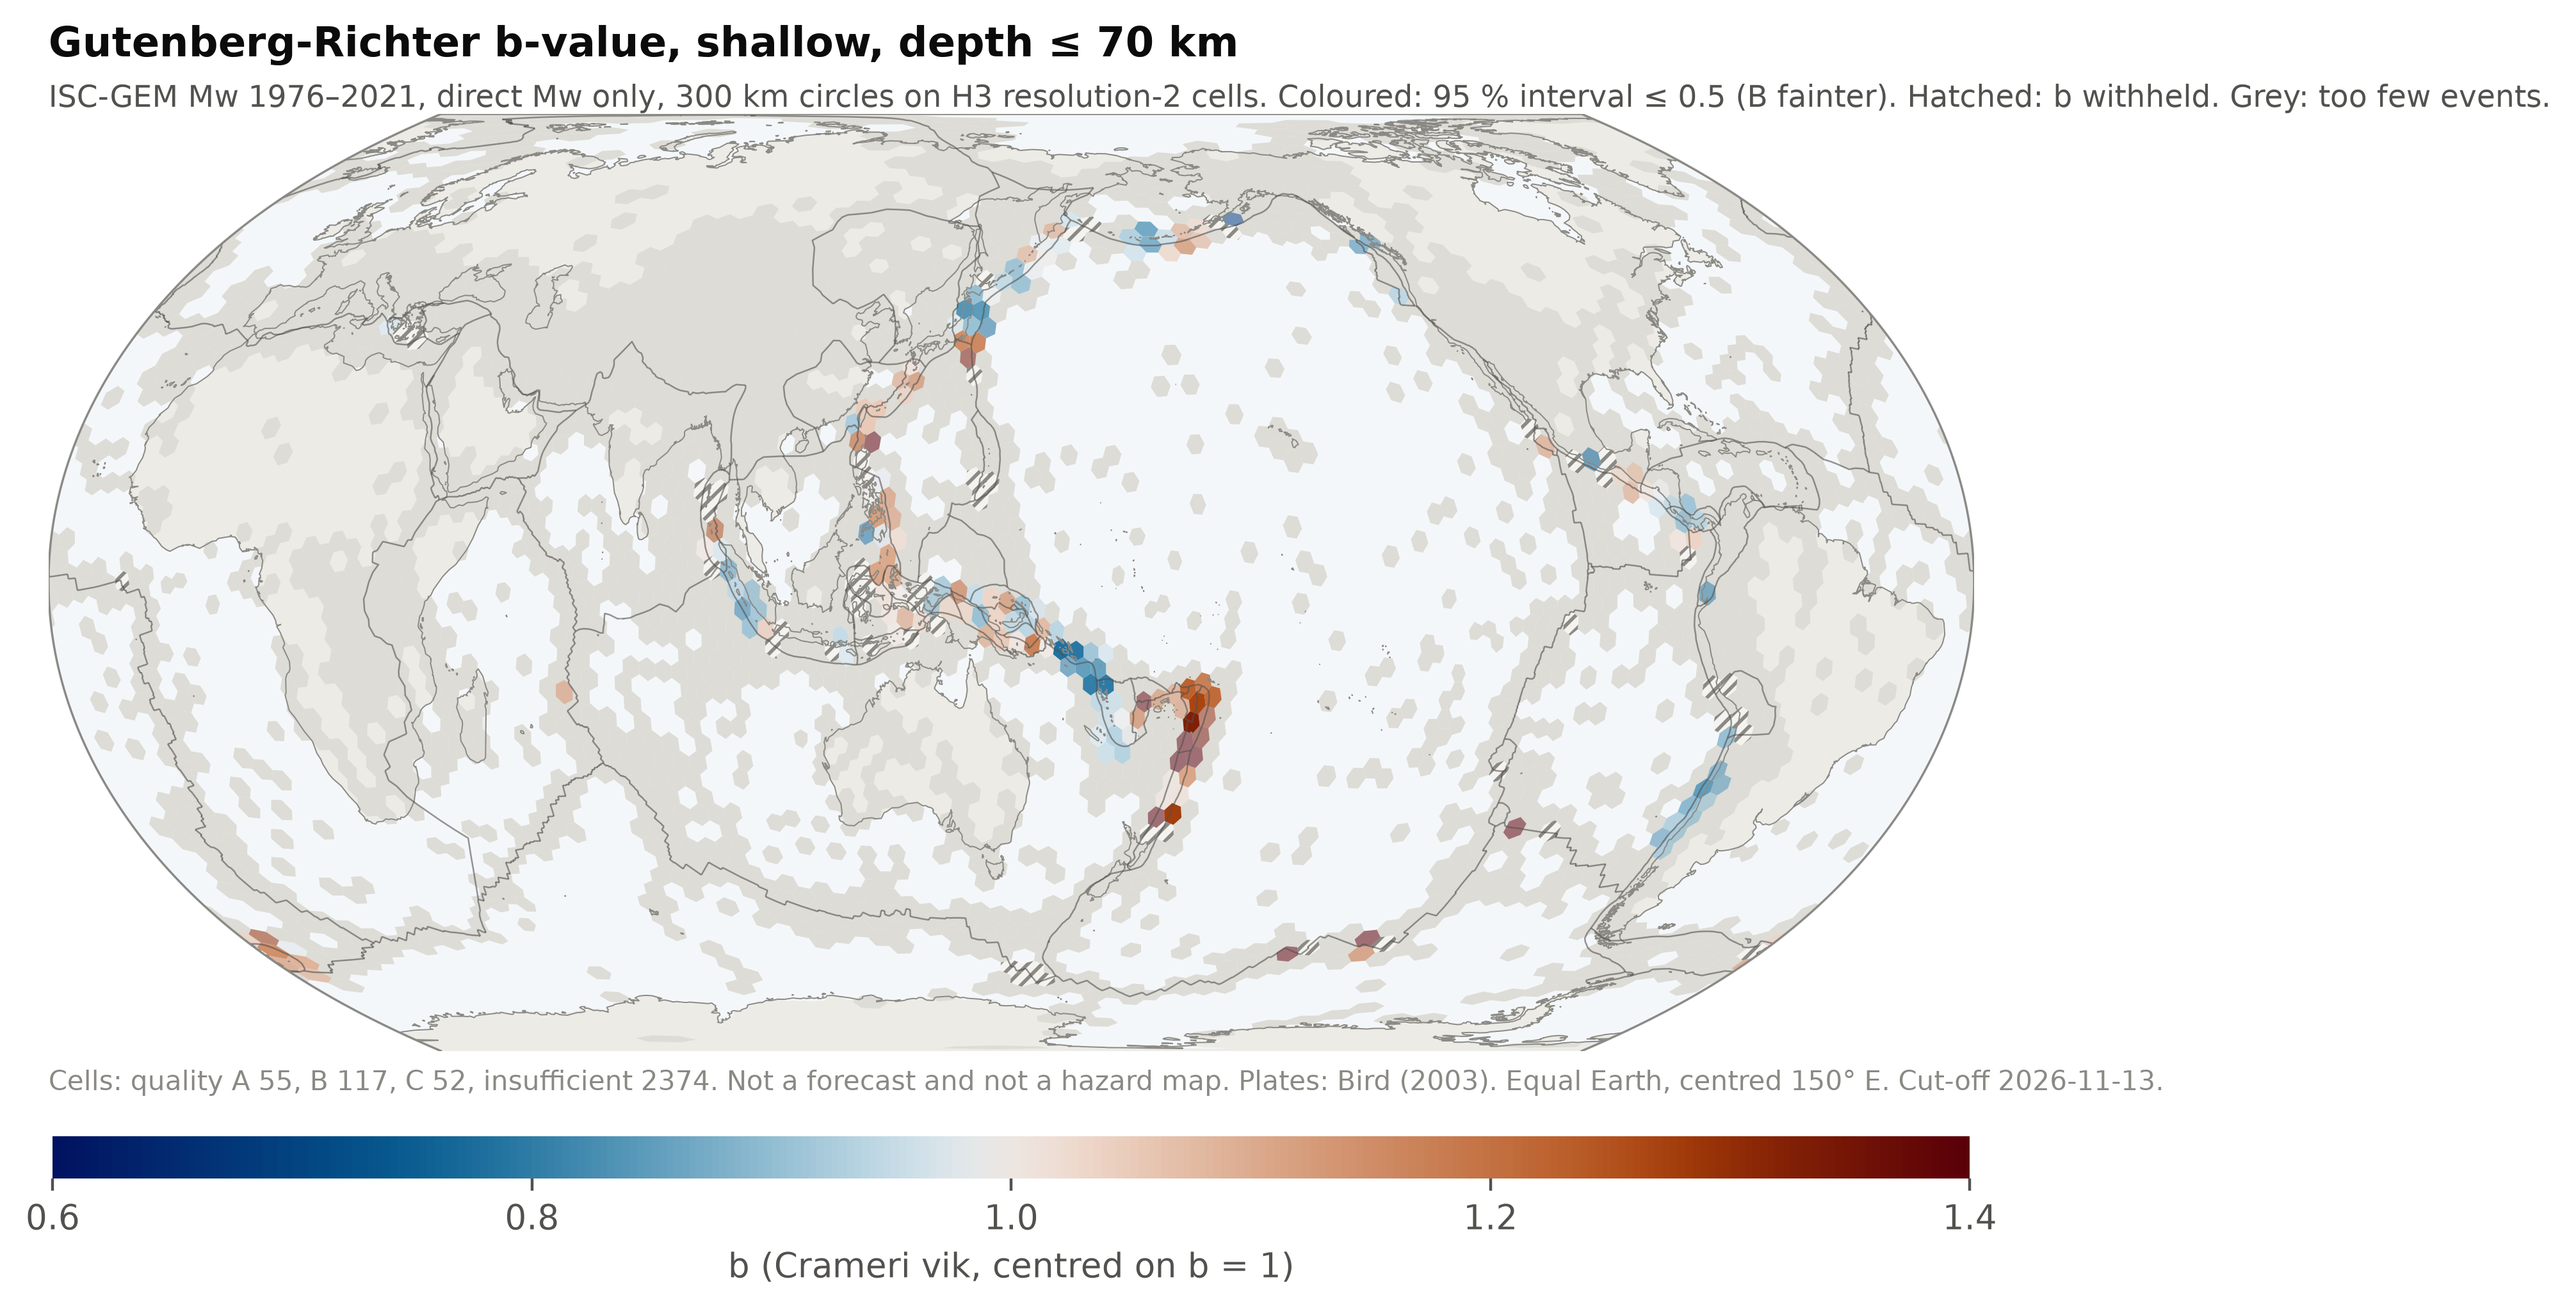
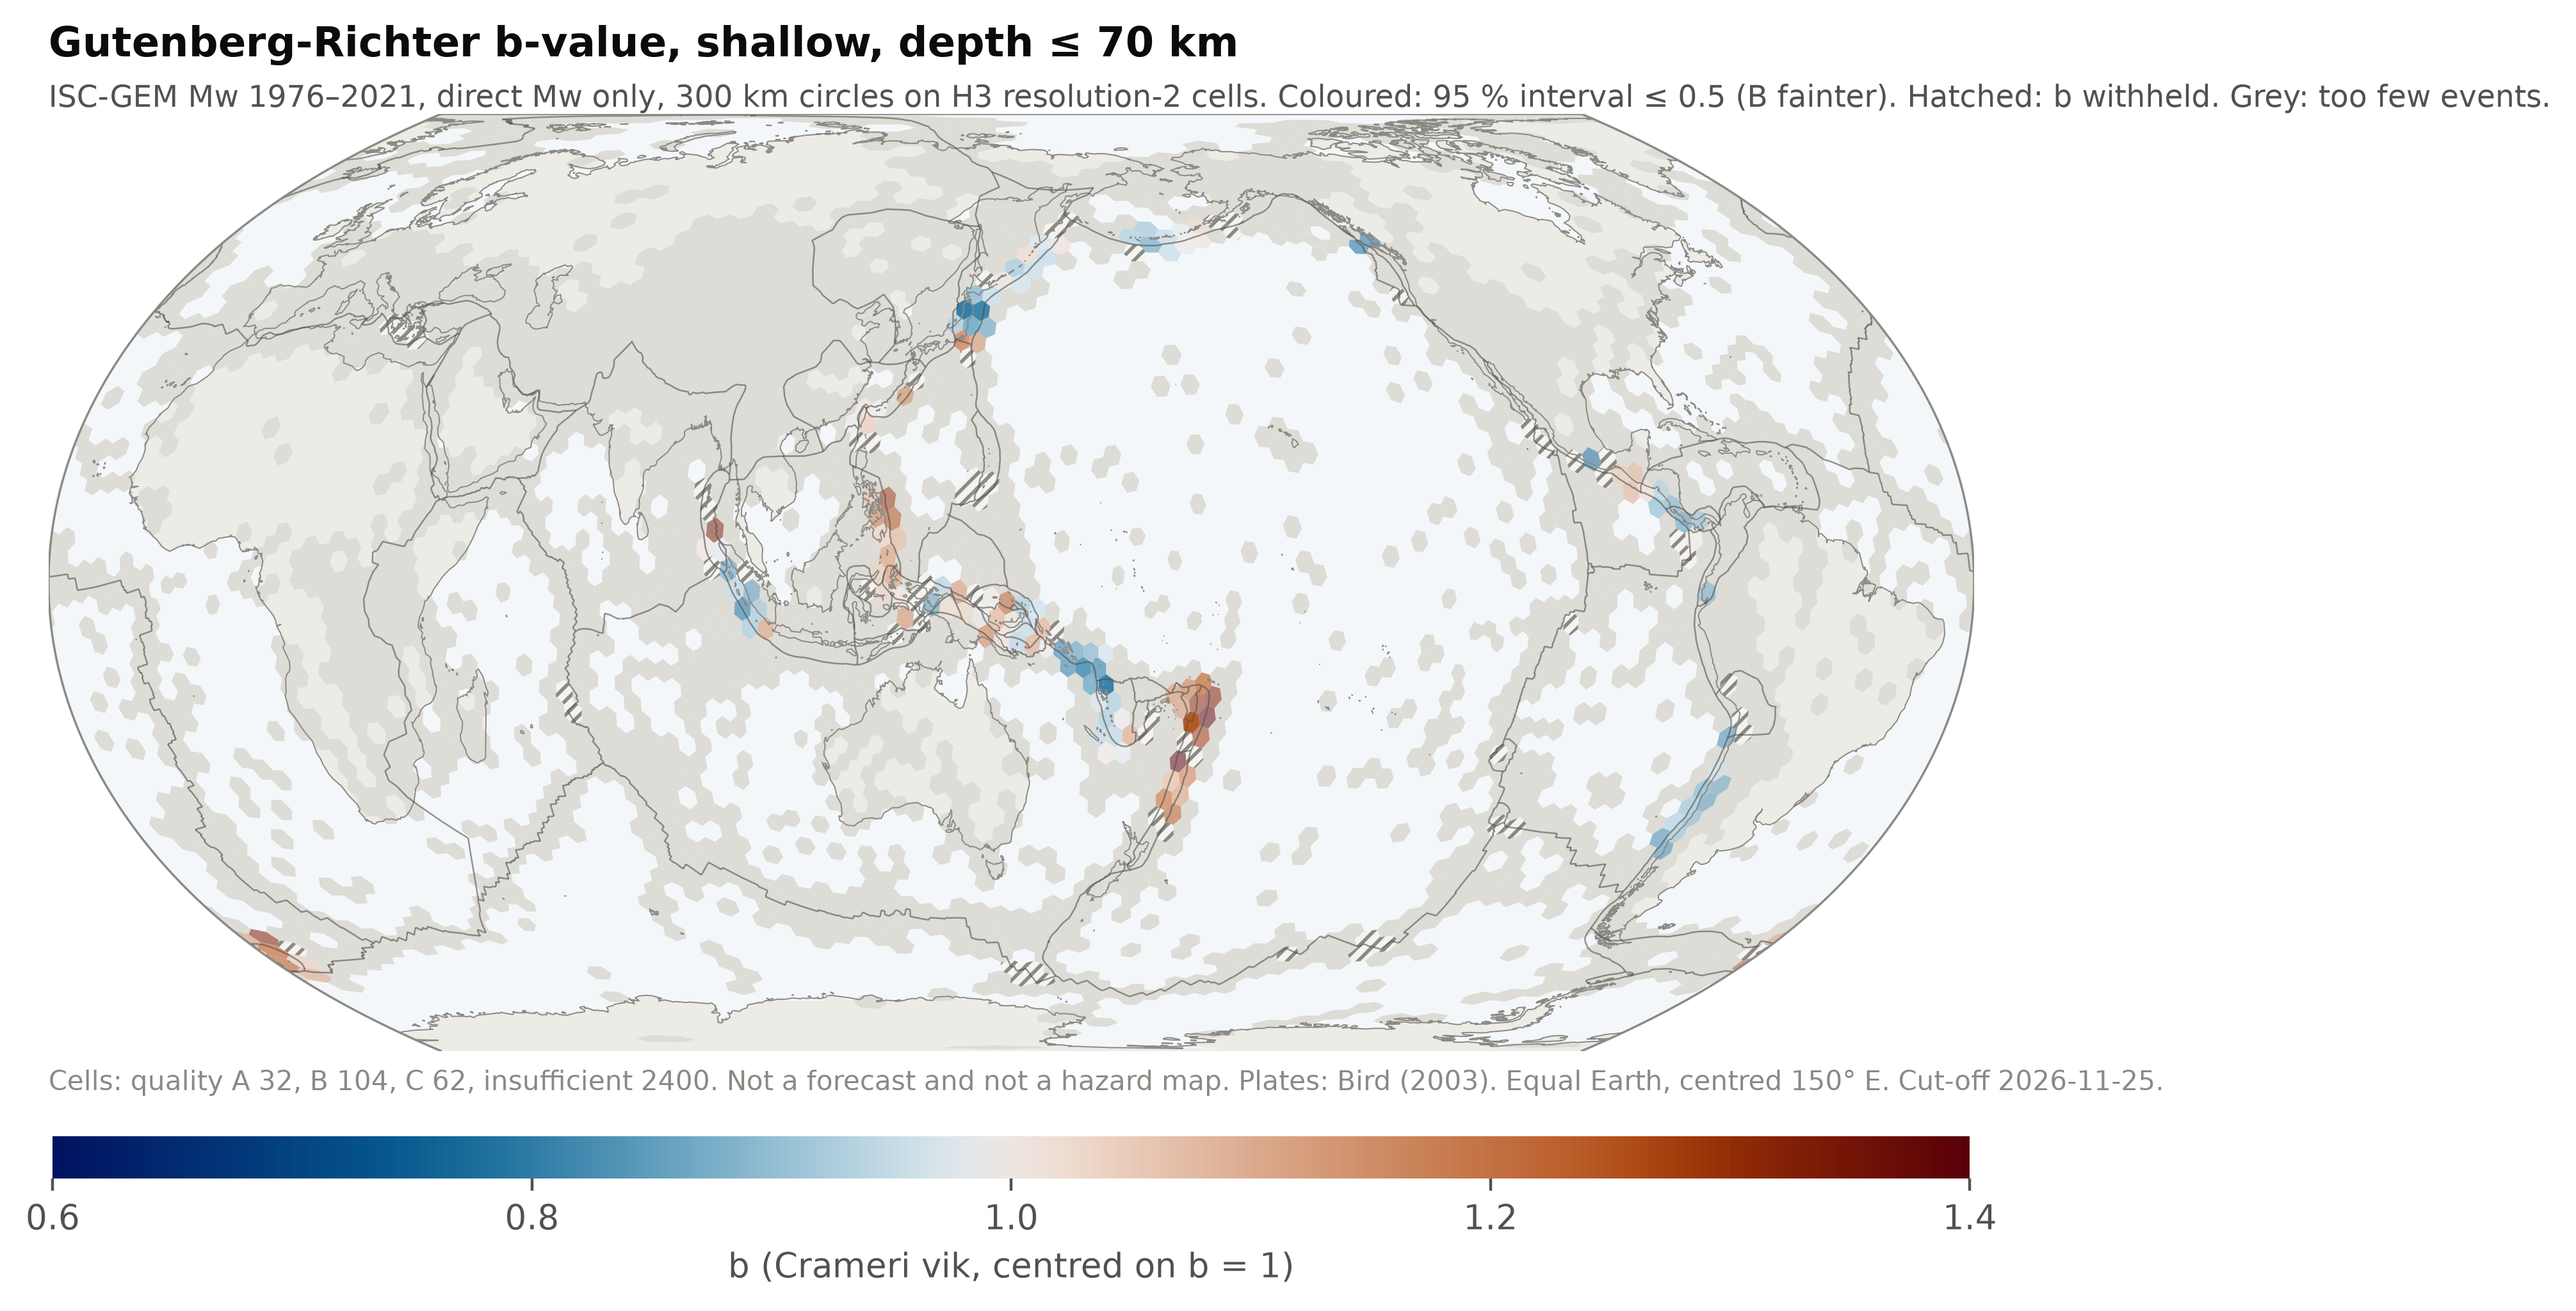
Paper figures from the 0.6.1 data; CHANGELOG 0.6.1

diff --git a/CHANGELOG.md b/CHANGELOG.md
@@ -3,7 +3,10 @@
 Versions follow `scripts/release.json` (shown on the site from `site/data/manifest.json`). A patch is a data refresh
 with the same schema, a minor version a method, schema or website change; see [docs/release.md](docs/release.md).
 
-## Unreleased
+## 0.6.1 (2026-11-25)
+
+Data cut-off 2026-11-25 (monthly ComCat refresh: `n_comcat` in 161 cells and the ComCat Mc of 7 cells changed; every b, interval and quality code is unchanged, as b uses ISC-GEM 1976–2021).
+
 
 - **Declustered quality code** (`*_qdecl`, regional detail `stats.q_decl`) is given only next to a shown main b,
   so a code A/B always comes with its `*_bdecl` (Iceland `85074543fffffff` had `sh_q` C, `sh_qdecl` B and no
